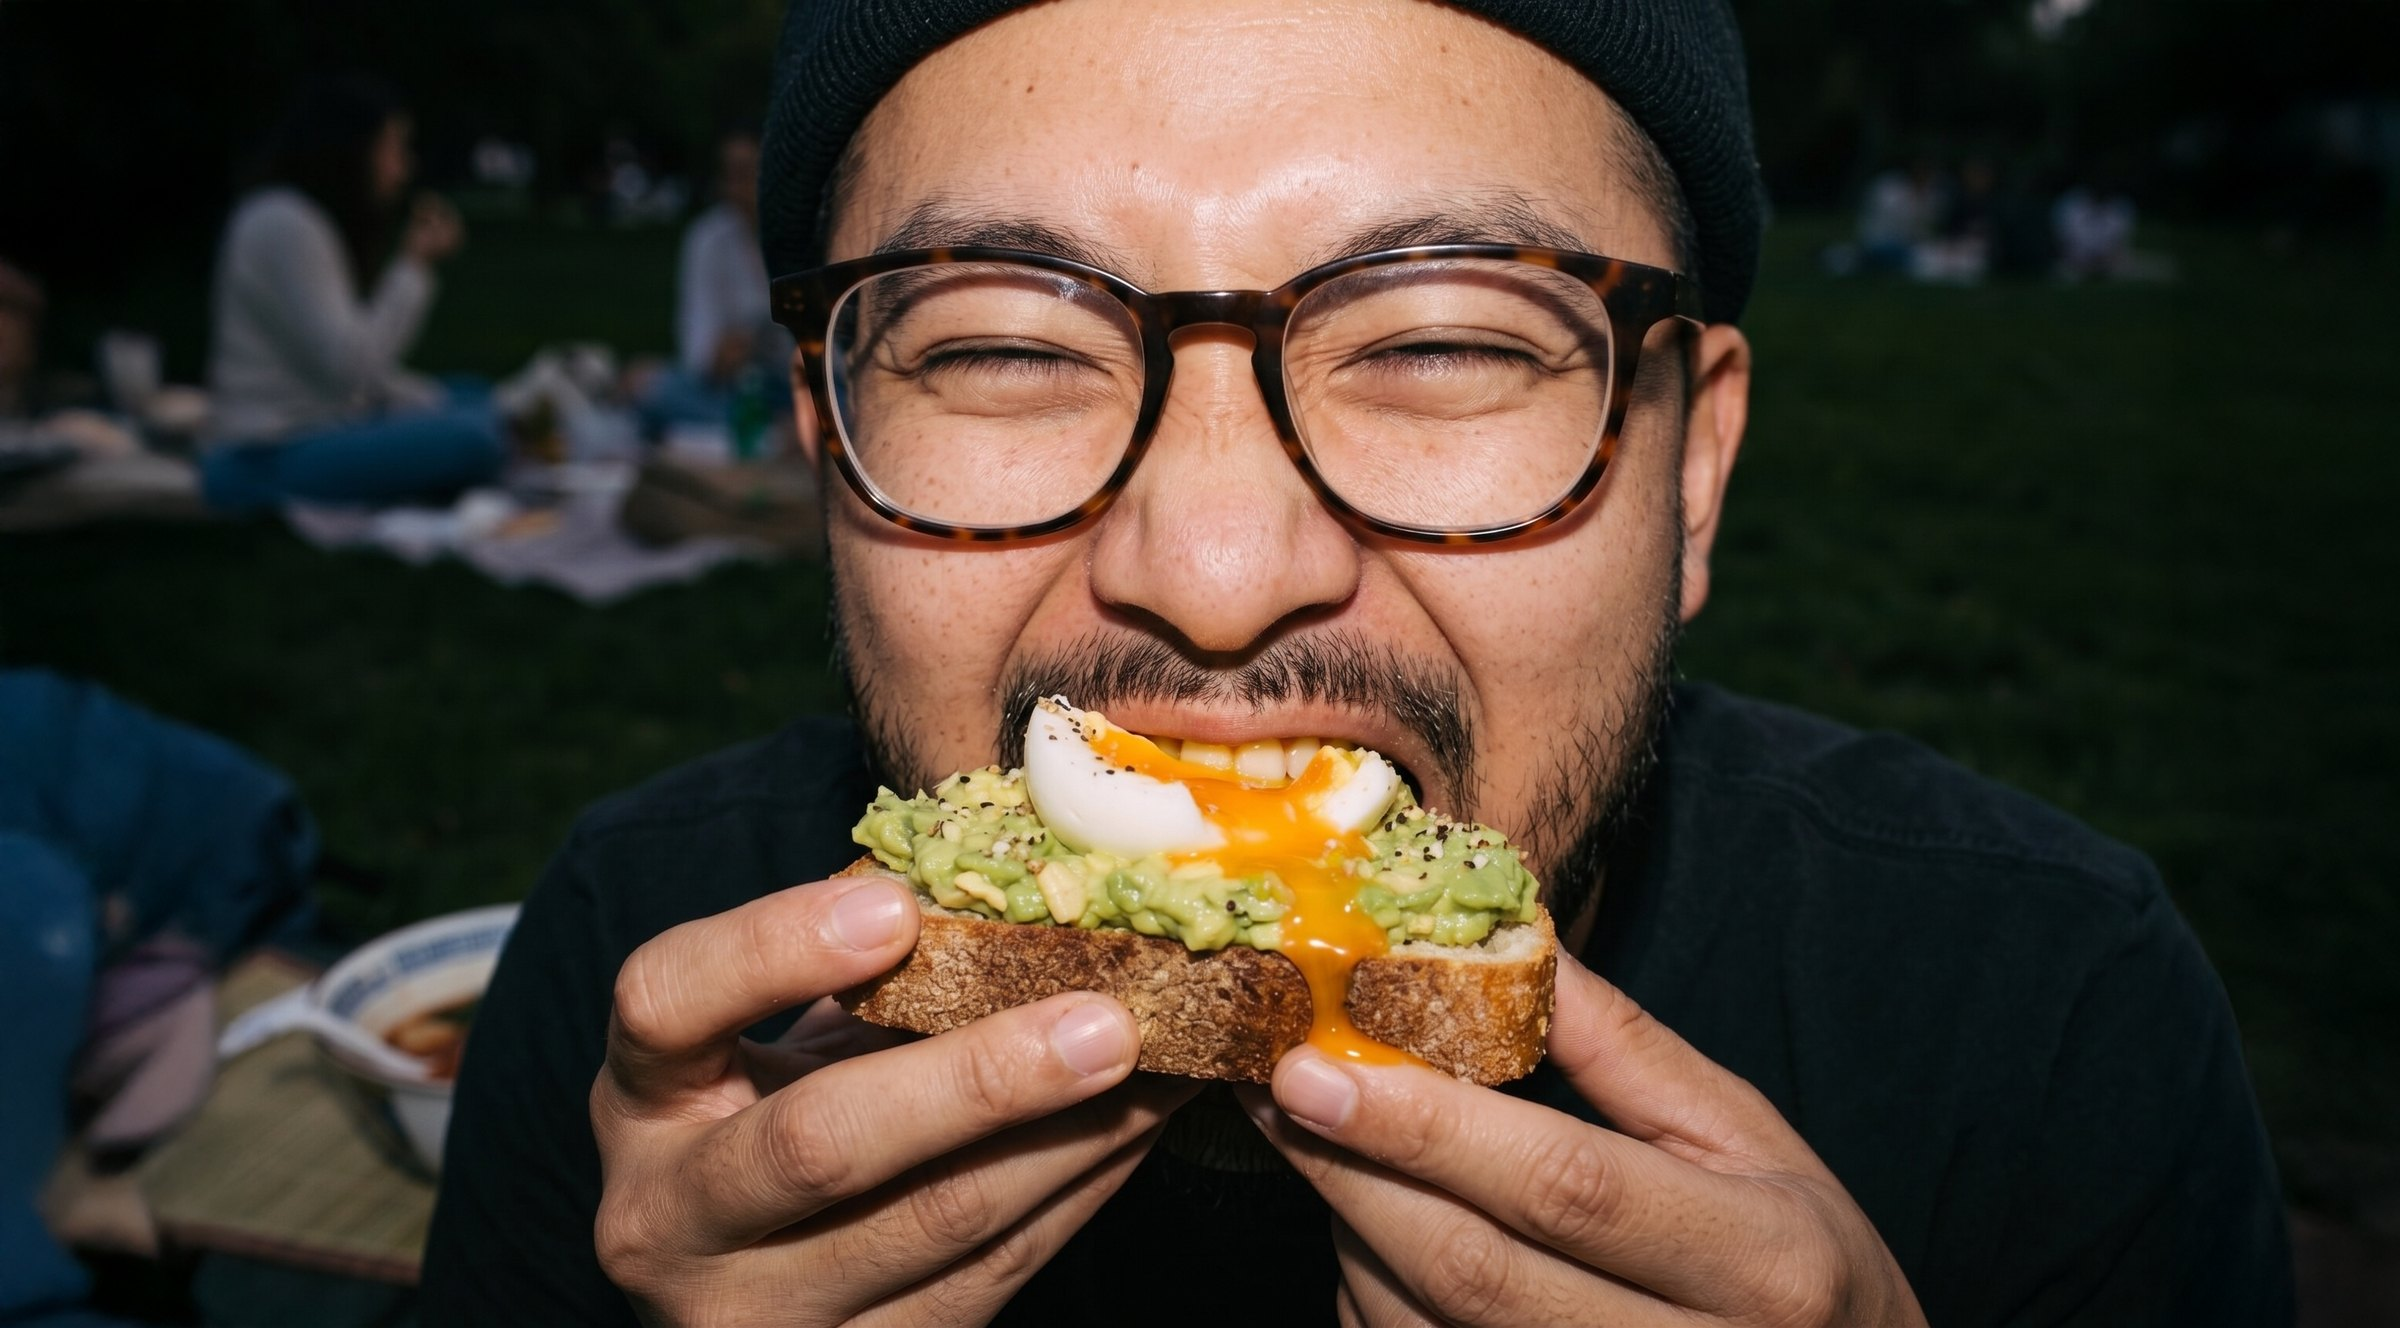
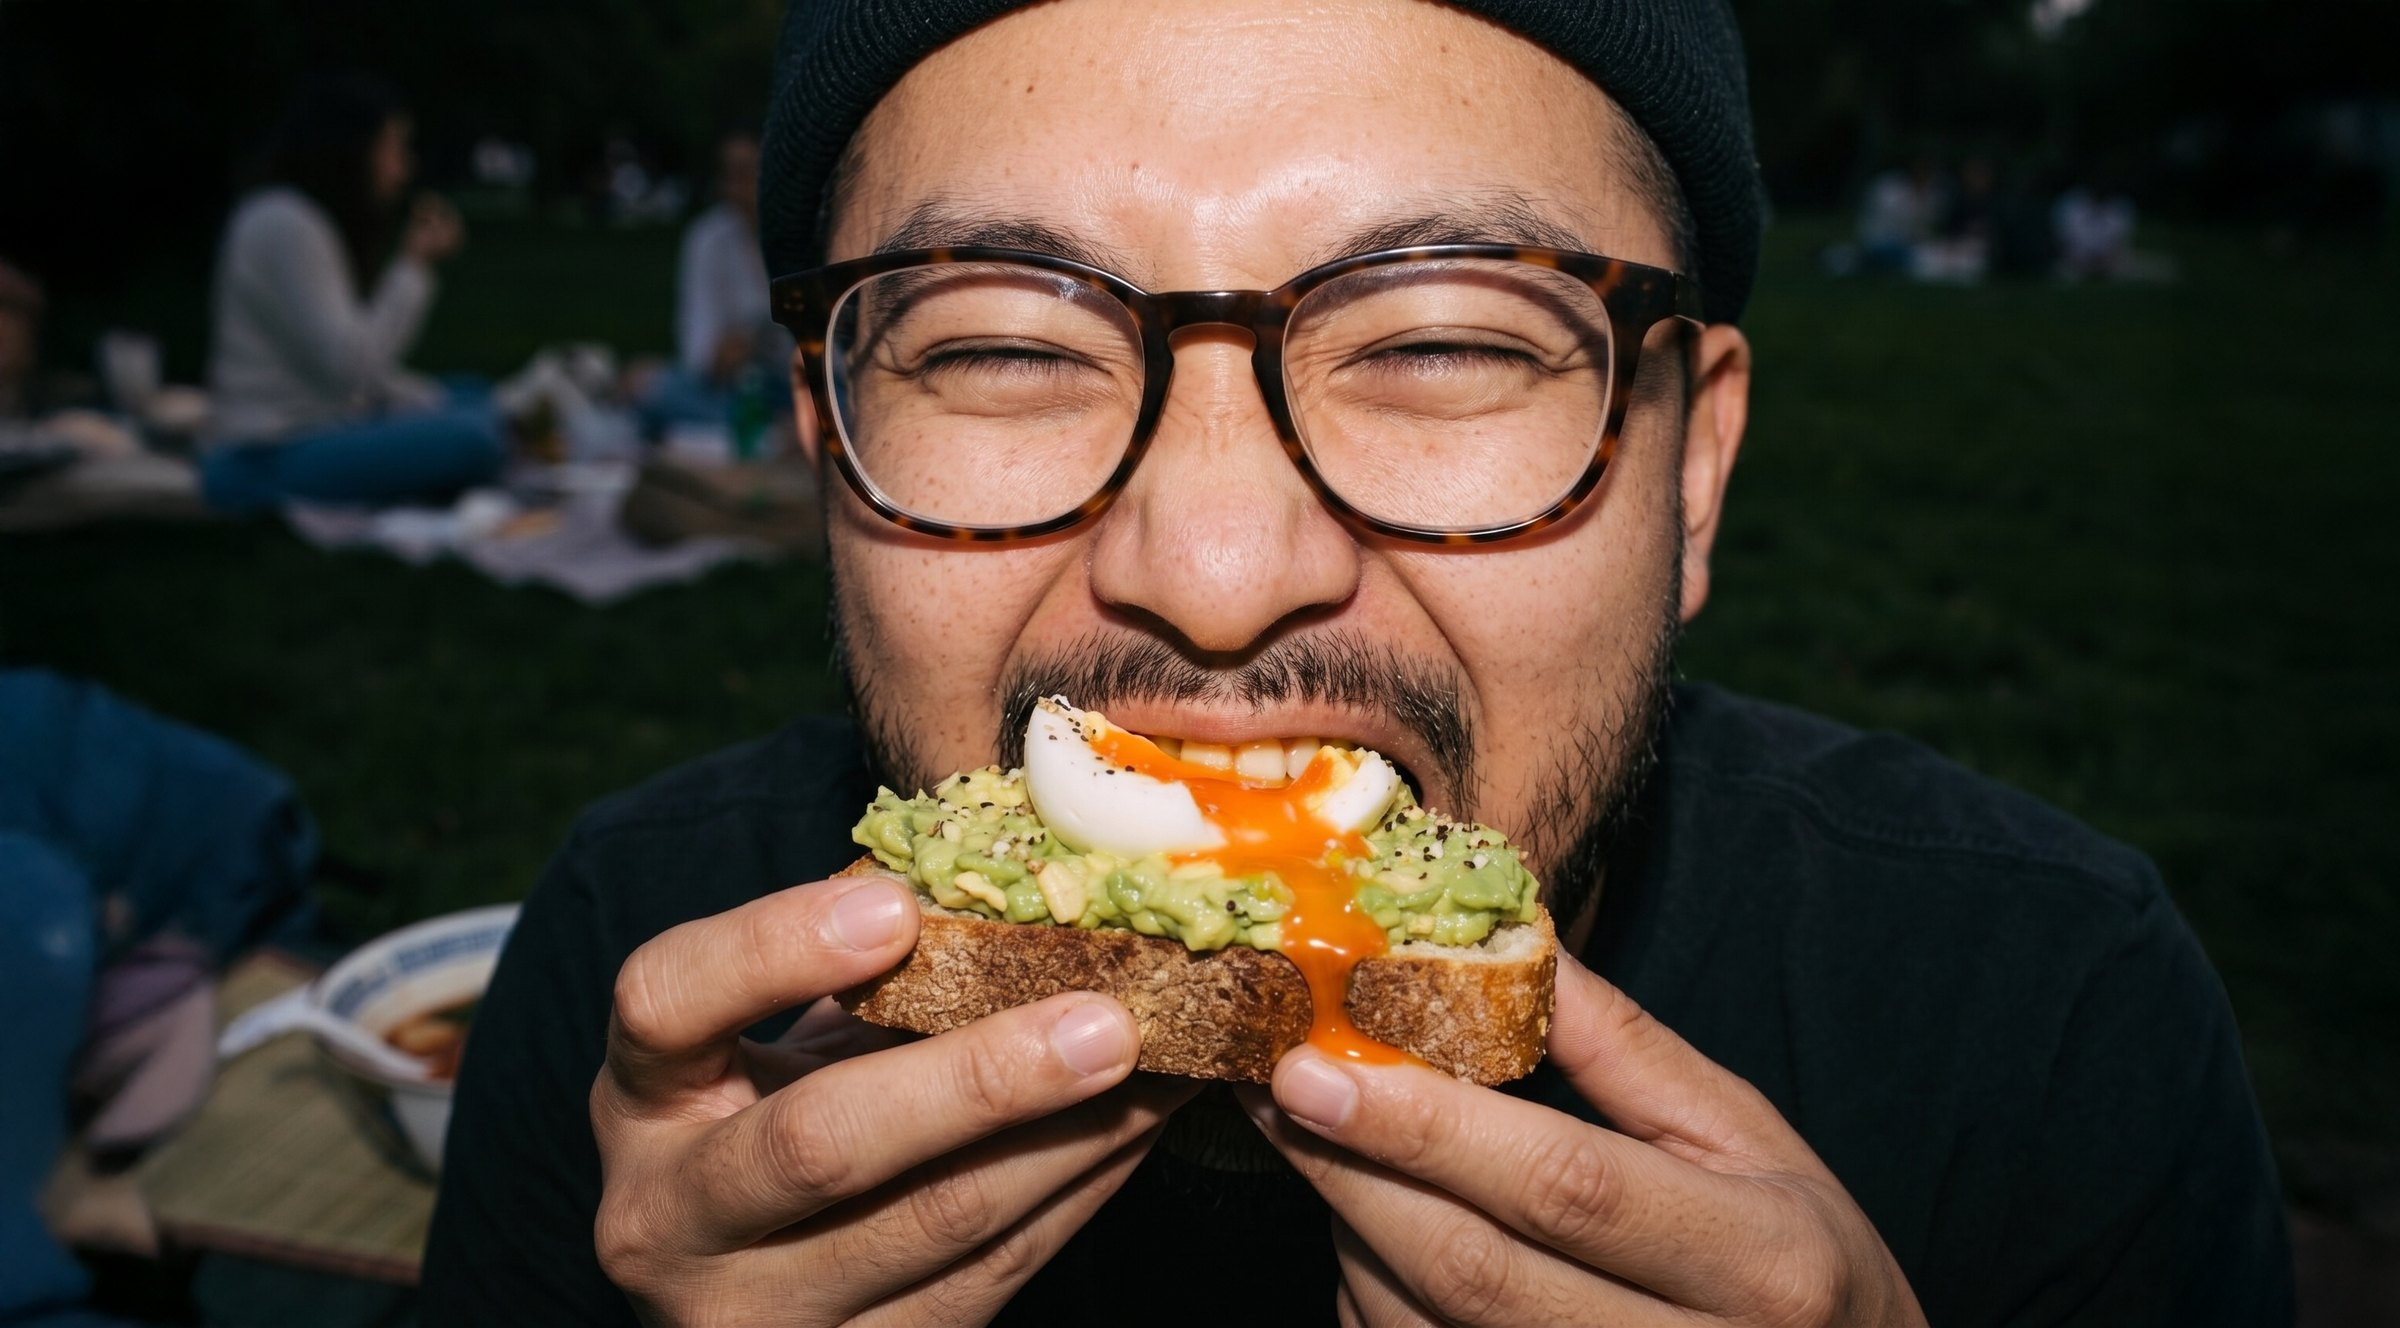
Jammy QA: update the hero photo with the adjusted yolk
The client supplied a re-edited frame. The yolk running down the toast is a
deeper orange: mean rgb(197,131,74) before, rgb(197,127,74) after.

A straight swap this time -- the replacement is the same crop at 3040x1682
against the live asset's 2400x1328 (aspect 1.8074 vs 1.8072), so it only
needed resampling, not re-cutting like the homepage band did. Confirmed it is
the same photograph before replacing anything: mean absolute difference 0.68,
and only 0.2% of pixels differ, all of them inside x 0.458-0.553,
y 0.554-0.690 -- which is exactly where the yolk runs.

Encoded at q86 to land on the original's file weight (334,959 bytes against
334,729), same 2400x1328 dimensions, so nothing about the hero's loading
behaviour changes.

item1c.js decodes the served image and asserts dimensions, object-fit and the
yolk's mean colour. The bound on the green channel is tight (<=129 against the
old 131 and new 127) because the edit itself is tight; anything looser would
pass the artwork it replaced. Verified to fail on the old hero.

19 jammy suites: 177 checks, no failures. item-06 evidence re-shot.

Claude-Session: https://claude.ai/code/session_01LWByyercuKycdp4f9PRau2

Changed region(s): [[0.4375, 0.5557, 0.5938, 0.741], [0.5312, 0.7718, 0.5938, 0.8027]]

diff --git a/scripts/qa/jammy/item1c.js b/scripts/qa/jammy/item1c.js
@@ -1,0 +1,67 @@
+const { chromium } = require('playwright');
+const R=[];const ck=(n,p,d='')=>{R.push(p);console.log(`${p?'PASS':'FAIL'}  ${n}${d?' — '+d:''}`)};
+
+// Jammy page: the hero photograph carries the client's adjusted yolk.
+//
+// The replacement was the same frame at 3040x1682 against the live asset's
+// 2400x1328 -- a straight swap, no re-cut. The edit is small and local: 0.2%
+// of pixels differ, all inside the yolk running down the toast, and the mean
+// yolk colour moves from rgb(197,131,74) to rgb(197,127,74). That is far too
+// small a change to eyeball on a photo this dark, which is why it is measured.
+(async()=>{
+  const b=await chromium.launch();
+  const p=await b.newContext({viewport:{width:1440,height:1000},deviceScaleFactor:2}).then(c=>c.newPage());
+  const bad=[];
+  p.on('response',r=>{if(r.status()>=400&&/brand-hero/.test(r.url()))bad.push(r.url().split('/').pop());});
+  await p.goto('http://localhost:7500/jammy',{waitUntil:'networkidle',timeout:60000});
+  await p.getByRole('region',{name:/cookie consent/i}).getByRole('button',{name:/reject all/i}).click().catch(()=>{});
+  await p.waitForTimeout(600);
+
+  const m=await p.evaluate(async()=>{
+    const el=[...document.querySelectorAll('img')].find(i=>/brand-hero/.test(i.getAttribute('src')||''));
+    if(!el) return null;
+    const load = () => new Promise(res=>{
+      const img=new Image();
+      img.onload=()=>{
+        const cv=document.createElement('canvas');
+        cv.width=img.naturalWidth; cv.height=img.naturalHeight;
+        cv.getContext('2d').drawImage(img,0,0);
+        const d=cv.getContext('2d').getImageData(0,0,cv.width,cv.height).data;
+        let rs=0,gs=0,bs=0,n=0;
+        for(let y=0;y<cv.height;y+=2) for(let x=0;x<cv.width;x+=2){
+          const o=(y*cv.width+x)*4, r=d[o],g=d[o+1],bl=d[o+2];
+          if(r>170 && g>60 && g<175 && bl<110 && (r-bl)>85){ rs+=r; gs+=g; bs+=bl; n++; }
+        }
+        res({w:img.naturalWidth,h:img.naturalHeight,
+             yolk: n?[Math.round(rs/n),Math.round(gs/n),Math.round(bs/n)]:null, px:n});
+      };
+      img.onerror=()=>res(null);
+      img.src=el.src;
+    });
+    return {decoded: await load(), rendered: el.complete && el.naturalWidth>0,
+            fit:getComputedStyle(el).objectFit};
+  });
+
+  if(!m || !m.decoded){ ck('hero image found and decodes', false); }
+  else {
+    const a=m.decoded;
+    ck('hero loads and renders', m.rendered);
+    ck('hero dimensions unchanged', a.w===2400 && a.h===1328, `${a.w}x${a.h}`);
+    ck('hero still covers its frame', m.fit==='cover', m.fit);
+    if(a.yolk){
+      // The adjustment is a deeper orange: the green channel drops from 131
+      // to 127. Tight, because the edit itself is tight -- a wider bound would
+      // pass the artwork it replaced.
+      ck('yolk carries the adjusted colour', a.yolk[1]<=129,
+         `mean rgb(${a.yolk.join(',')}) — green ${a.yolk[1]}, was 131`);
+      ck('yolk still reads as yolk', a.yolk[0]>185 && a.yolk[1]>110,
+         `rgb(${a.yolk.join(',')})`);
+    } else ck('yolk found in the hero', false);
+  }
+  ck('no broken hero requests', bad.length===0, bad.join(','));
+
+  await b.close();
+  const f=R.filter(x=>!x).length;
+  console.log(`\n${R.length-f}/${R.length} passed`);
+  process.exit(f?1:0);
+})();
